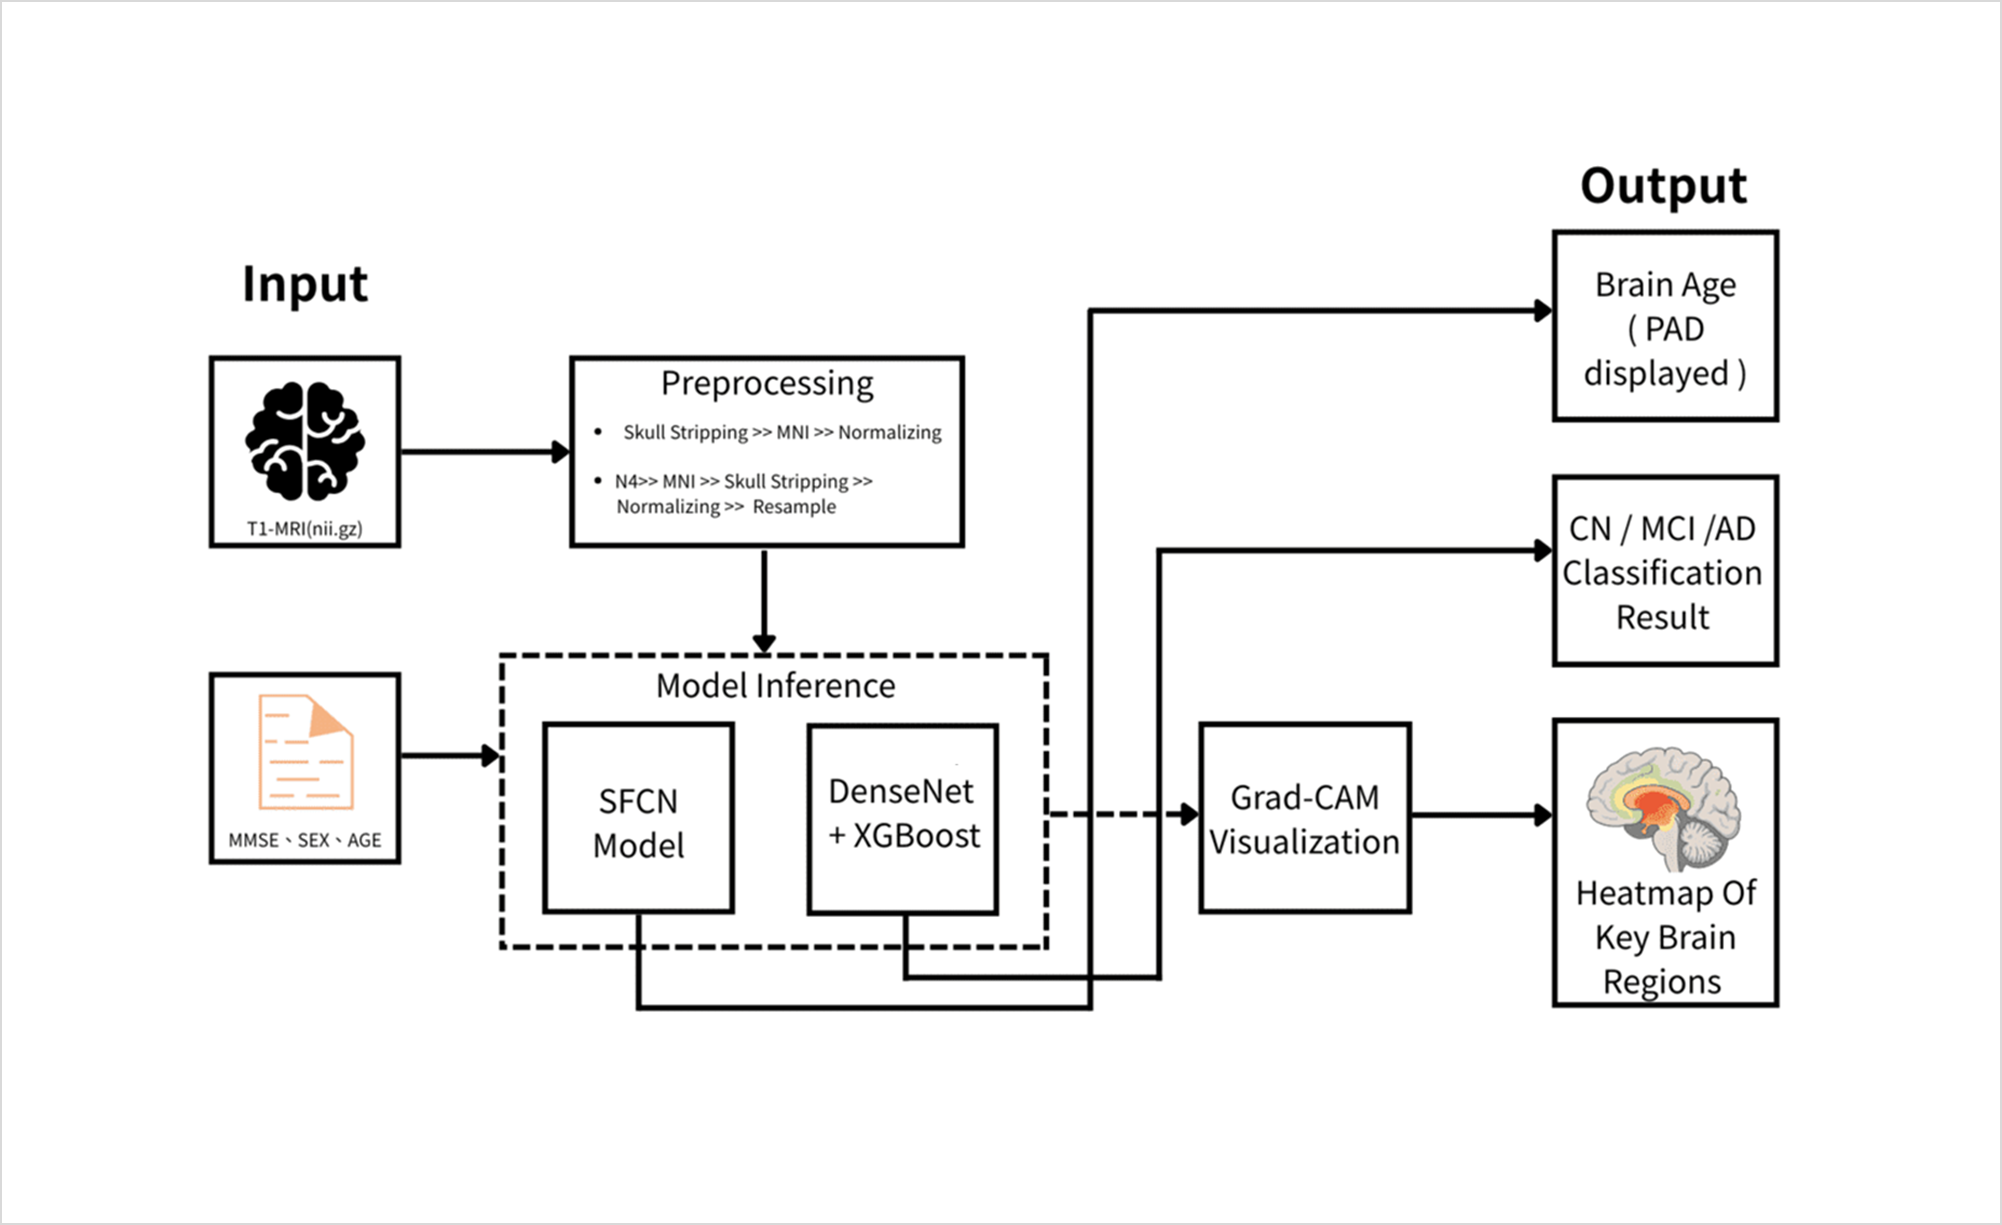
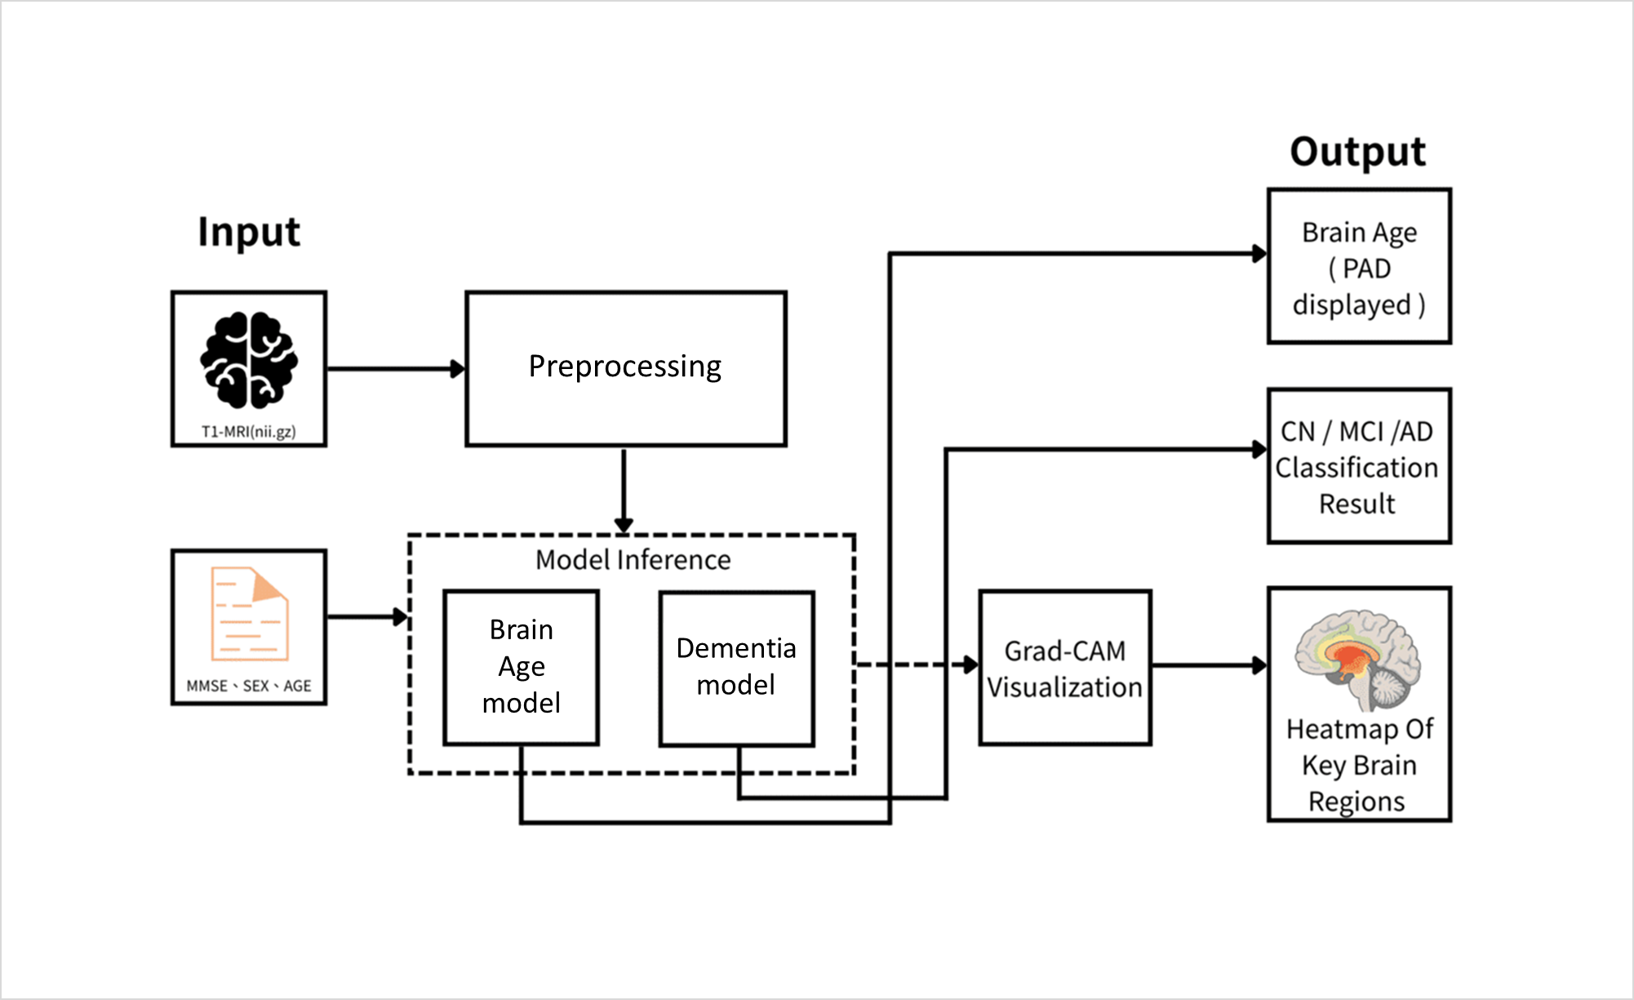
獲獎

Changed region(s): [[0.3121, 0.31, 0.4682, 0.434], [0.4058, 0.62, 0.4994, 0.713], [0.2809, 0.62, 0.3433, 0.713]]

diff --git a/readme.md b/readme.md
@@ -1,6 +1,6 @@
 # 🧠 Trajectory 基於腦年齡與失智症預測模型之長期腦部健康追蹤系統
 
-## 👀系統簡介
+## 👀 系統簡介
 
 [![產品介紹影片：](images/demo.png)](https://youtu.be/9u6xG_67Q1s)
 
@@ -12,7 +12,7 @@ Trajectory是一套基於**腦年齡與失智症預測模型**的長期腦部健
 
 ---
 
-## 🏥應用場景
+## 🏥 應用場景
 
 ![系統應用場景](images/SystemApplicationScenarios.png)
 > 圖1. Trajectory系統應用場景
@@ -29,7 +29,7 @@ Trajectory是一套基於**腦年齡與失智症預測模型**的長期腦部健
 
 ---
 
-## ⛓系統架構
+## ⛓ 系統架構
 
 ![系統架構](images/SystemFramework.png)
 > 圖2. Trajectory系統架構
@@ -44,21 +44,18 @@ Trajectory是一套基於**腦年齡與失智症預測模型**的長期腦部健
 
 ---
 
-## 🤖AI運算模組
+## 🤖 AI運算模組
 
 ![AI運算模組](images/AiModule.png)
 > 圖3. Trajectory AI運算模組
 
-圖3為本系統後端的AI運算模組之架構。首先，腦部 MRI 影像會經過前處理，處理後的影像隨後會被送入兩個平行的運算流程：
-
-1. 腦齡預測：影像被輸入至 SFCN 模型並輸出腦齡預測值。
-2. 失智症分類：影像與其他輔助特徵（認知測驗分數、性別與年齡）一起輸入至 DenseNet 、 XGBoost 混合模型，輸出失智症分類結果。此失智症分類模型由本實驗室的前輩所研發。
+圖3為本系統後端的AI運算模組之架構。首先，腦部 MRI 影像會經過前處理，處理後的影像隨後會被送入兩個平行的運算流程 (腦齡預測、失智症預測) 。
 
 最後，利用**Grad-CAM 演算法**，根據模型輸出生成對應的**關鍵腦區熱圖**。
 
 ---
 
-## 🧑💻Trajectory功能介紹
+## 🧑💻 Trajectory功能介紹
 
 ![登入介面](images/login.png)
 > 圖4. 登入介面
@@ -99,7 +96,7 @@ Trajectory是一套基於**腦年齡與失智症預測模型**的長期腦部健
 
 ---
 
-## 🧑🌾開發團隊
+## 🧑🌾 開發團隊
 
 | 成員     | 貢獻度 | 負責工作 |
 | -------- |-------| -------- |
@@ -108,3 +105,23 @@ Trajectory是一套基於**腦年齡與失智症預測模型**的長期腦部健
 | 徐睿淳   | 25% | 系統發想、AI Pipeline、產品圖片及影片製作   |
 
 > 💬 註：腦年齡預測模型與失智症分類模型皆為實驗室各自專題成果
+
+---
+
+## 🥇 獲獎
+
+- **主辦單位**：[台灣作業研究學會](http://www.orstw.org.tw/)
+
+- **比賽名稱**：台灣作業研究學會 大專生專題競賽
+
+- **名次**：決策支援系統與應用組 第一名
+
+![獎狀](images/award.jpg)
+> 圖10. 獎狀
+
+![合照](images/groupPhoto.jpg)
+> 圖11. 團隊成員與學會理事長合影
+
+合影成員 **(由左至右)**：顏少于、王冠智、徐睿淳、成功大學王逸琳教授
+
+---
